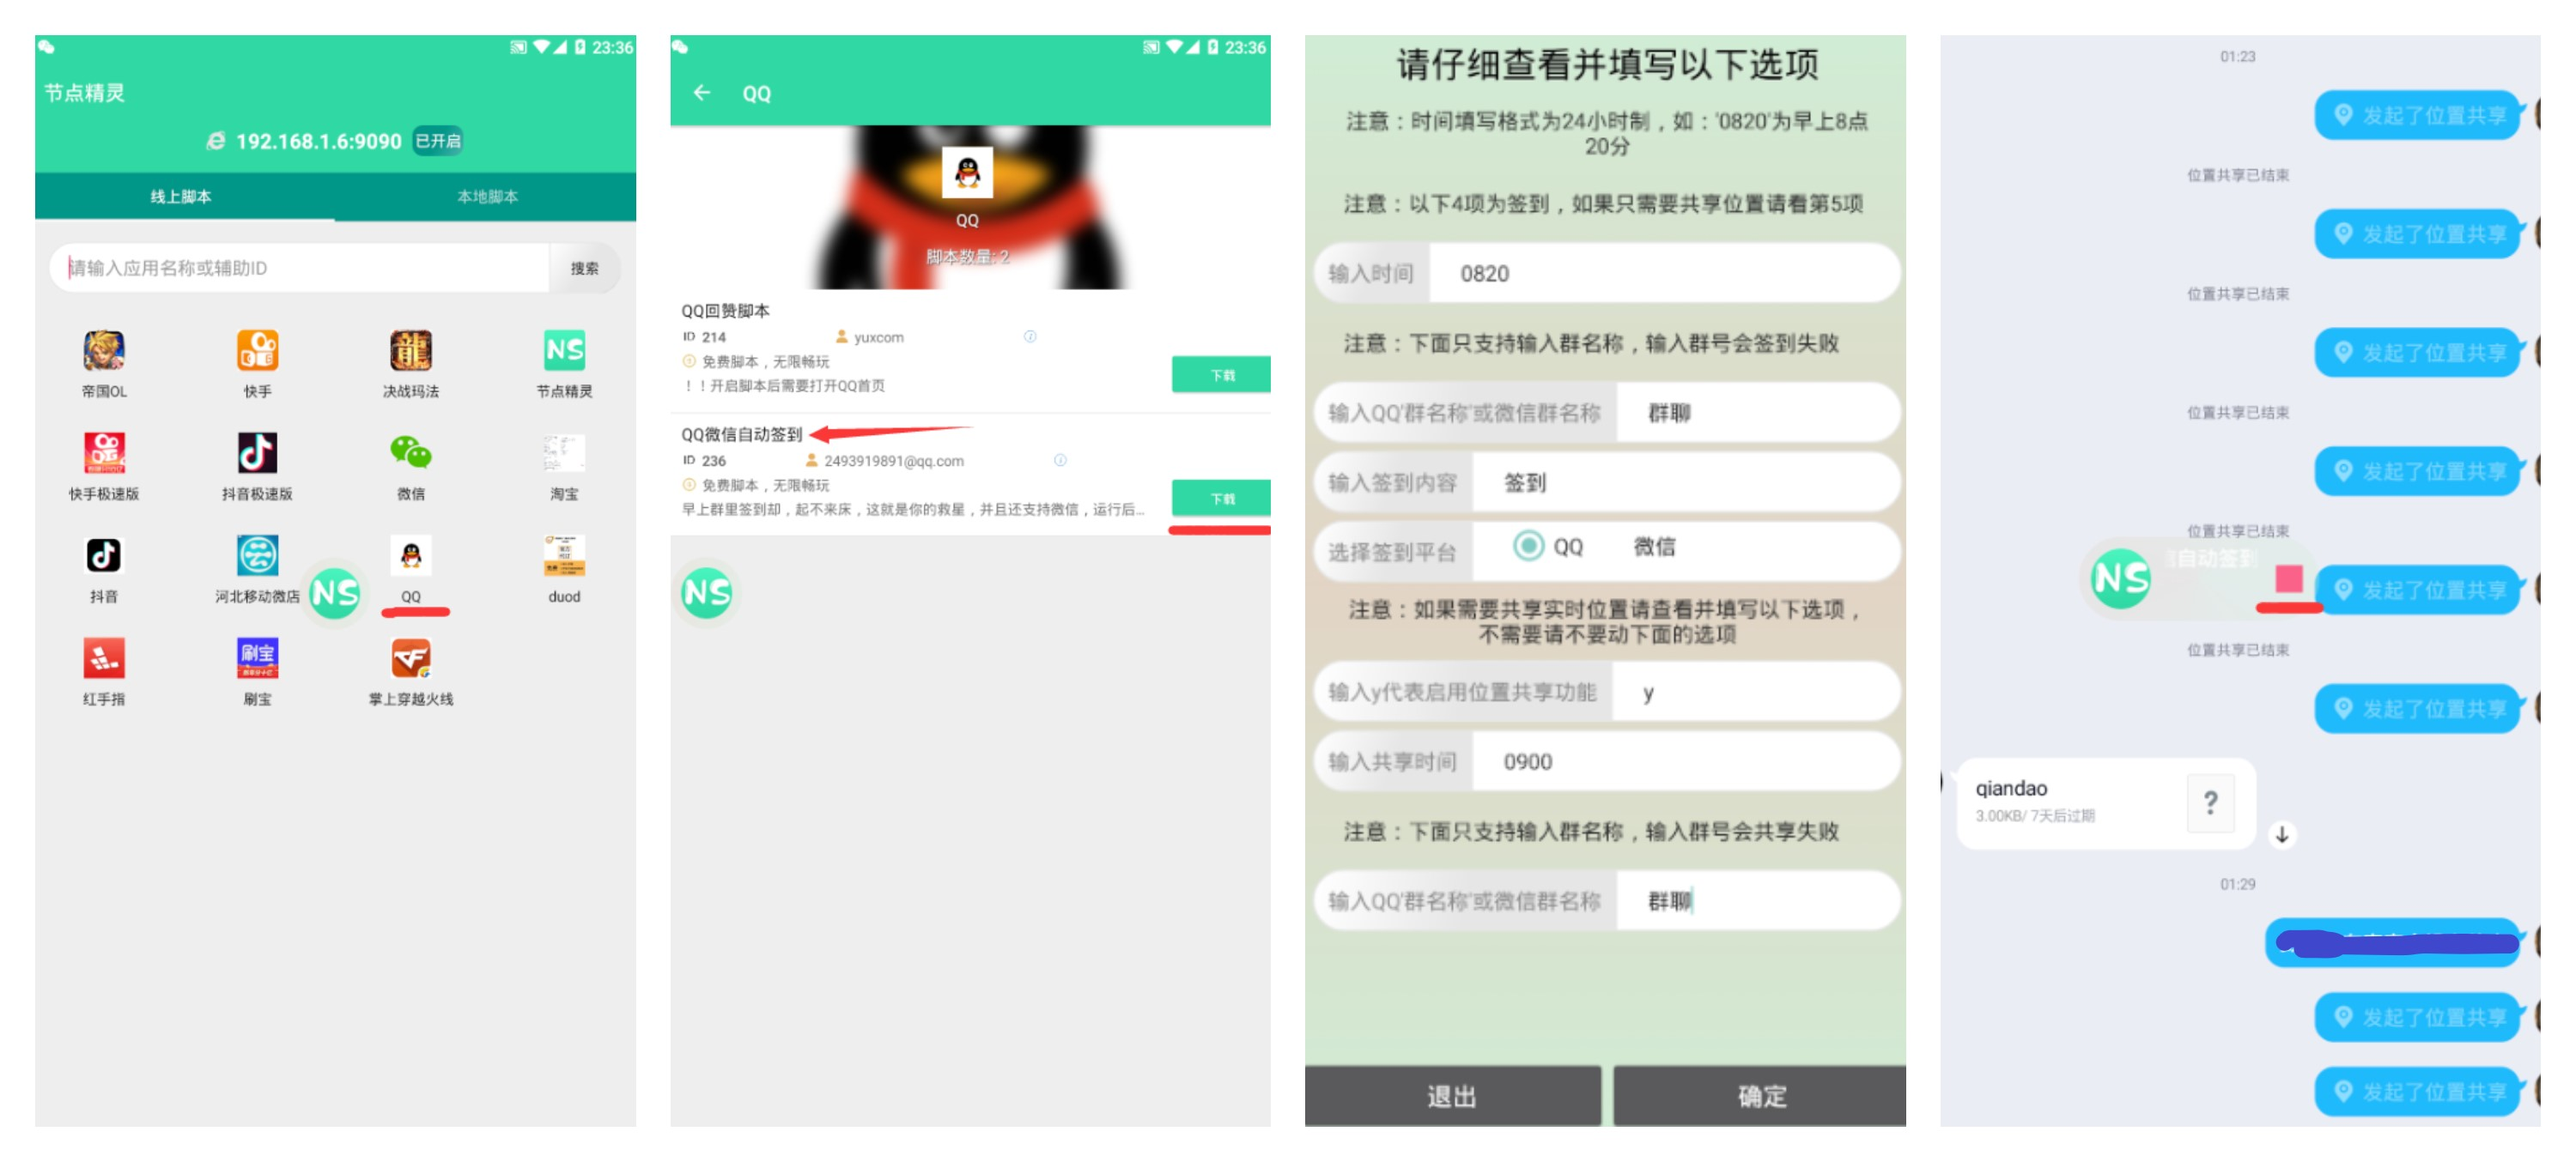
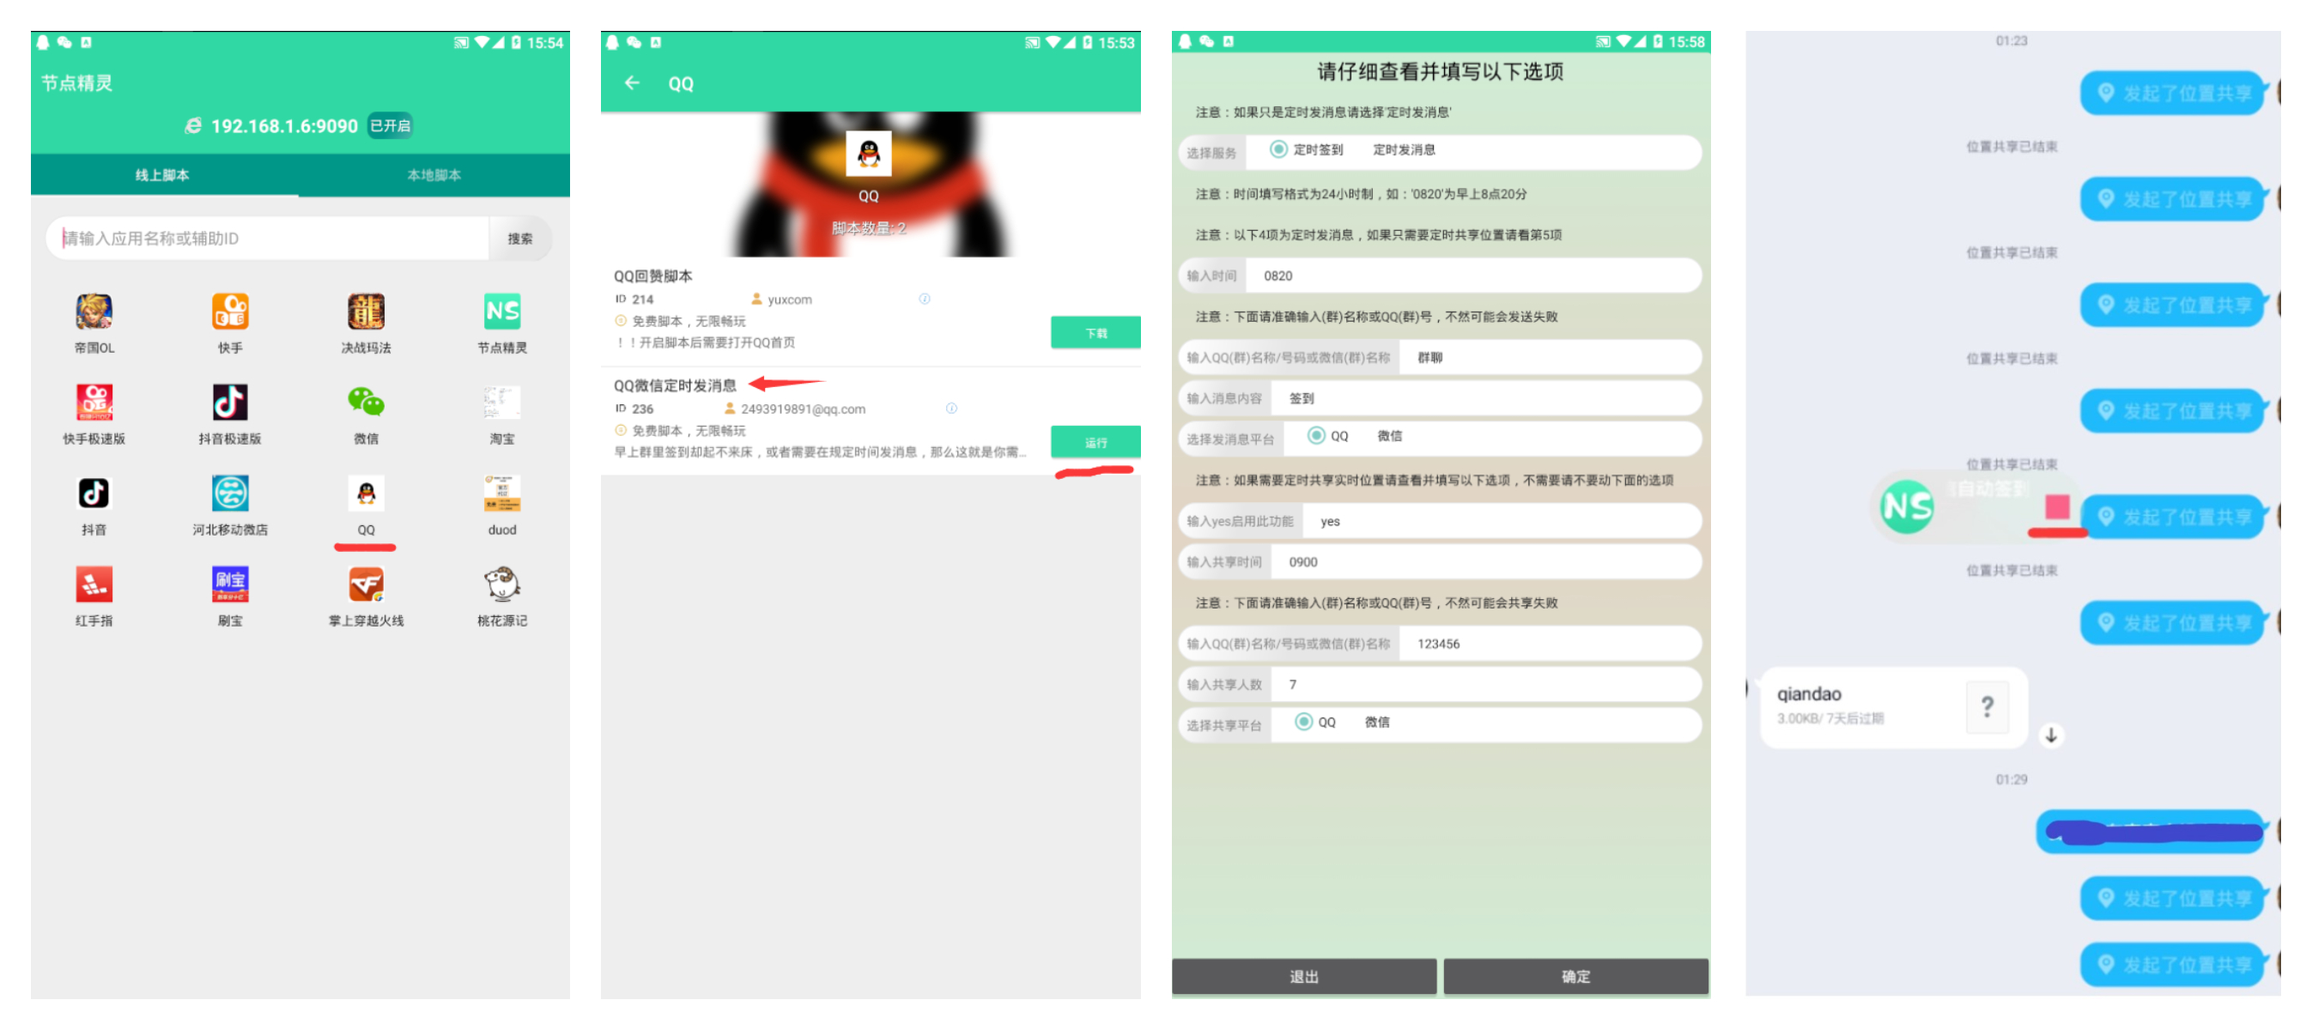
Site updated: 2020-02-24 16:03:30

diff --git a/2020/02/22/page5/index.html b/2020/02/22/page5/index.html
@@ -171,7 +171,7 @@
 <meta property="og:locale" content="zh-Hans">
 <meta property="og:image" content="http://darkabyss.top/2020/02/22/page5/1.jpg">
 <meta property="og:image" content="http://darkabyss.top/2020/02/22/page5/2.jpg">
-<meta property="og:updated_time" content="2020-02-24T07:29:12.765Z">
+<meta property="og:updated_time" content="2020-02-24T07:36:52.254Z">
 <meta name="twitter:card" content="summary">
 <meta name="twitter:title" content="微信QQ定时发消息">
 <meta name="twitter:description" content="为何出此脚本由于疫情我们不能去学校上学，所以流行起了网课，我们班就是每天QQ群里签到，然后共享位置，在群里上课，但是要完成签到和共享位置必须得很早起床，对于我这种不想起床的人来说这是非常痛苦的，遇巧的是正好我在之前学习了lua语言和新兴的辅助软件“节点精灵”，所以为了不起这么早，就写了此脚本，任何人可用。">
@@ -492,7 +492,7 @@
                 
                   <span class="post-meta-item-text">更新于</span>
                 
-                <time title="修改时间：2020-02-24 15:29:12" itemprop="dateModified" datetime="2020-02-24T15:29:12+08:00">2020-02-24</time>
+                <time title="修改时间：2020-02-24 15:36:52" itemprop="dateModified" datetime="2020-02-24T15:36:52+08:00">2020-02-24</time>
               </span>
             
           
@@ -555,8 +555,8 @@
 <a id="more"></a>
 
 <h1 id="运行并配置辅助软件"><a href="#运行并配置辅助软件" class="headerlink" title="运行并配置辅助软件"></a>运行并配置辅助软件</h1><p>要使脚本起作用需要下载<a href="https://share.weiyun.com/5IUdjQ6" target="_blank" rel="noopener">节点精灵</a>，下载好后打开会提示你开启无障碍服务，点击前往开启，然后跳转到无障碍设置，点击节点精灵，然后点击那个滑块，提示是否启用点确定。<br><img src="1.jpg" alt></p>
-<h1 id="下载并运行脚本"><a href="#下载并运行脚本" class="headerlink" title="下载并运行脚本"></a>下载并运行脚本</h1><p>配置好后，进入节点精灵主界面，这里我已经把脚本上传到了官方，所以直接点击主界面的QQ，然后会看到2个脚本，后面那个就是我上传的脚本，可以直接下载，下载好后直接点击运行即可，运行后按照图4样板填写即可，如果要关闭的话，直接点击悬浮窗的红色停止按钮即可。<br><img src="2.jpg" alt></p>
-<h1 id="写在最后"><a href="#写在最后" class="headerlink" title="写在最后"></a>写在最后</h1><p>此脚本不仅限于签到，像一些需要在某个时间发消息，但是在那个时间没有闲手，那么就可以用到这个脚本，这就是这个脚本的作用。</p>
+<h1 id="下载并运行脚本"><a href="#下载并运行脚本" class="headerlink" title="下载并运行脚本"></a>下载并运行脚本</h1><p>配置好后，进入节点精灵主界面，这里我已经把脚本上传到了官方，所以直接点击主界面的QQ，然后会看到2个脚本，后面那个就是我上传的脚本，可以直接下载，下载好后直接点击运行即可，运行后按照图4样板填写即可，如果要关闭的话，直接点击悬浮窗的红色停止按钮即可，另外如果共享人数没有达到指定人数就会每隔五分钟持续打开共享的。<br><img src="2.jpg" alt></p>
+<h1 id="写在最后"><a href="#写在最后" class="headerlink" title="写在最后"></a>写在最后</h1><p>此脚本还有隐藏功能，对于早上签到如果没有发现老师或者同学签到是不会签到的，只有当老师或者同学发送了签到才发送签到，这个功能只能用于QQ。此脚本不仅限于签到，像一些需要在某个时间发消息，但是在那个时间没有闲手，那么就可以用到这个脚本，这就是这个脚本的作用。</p>
 
       
     </div>

diff --git a/index.html b/index.html
@@ -488,7 +488,7 @@
                 
                   <span class="post-meta-item-text">更新于</span>
                 
-                <time title="修改时间：2020-02-24 15:29:12" itemprop="dateModified" datetime="2020-02-24T15:29:12+08:00">2020-02-24</time>
+                <time title="修改时间：2020-02-24 15:36:52" itemprop="dateModified" datetime="2020-02-24T15:36:52+08:00">2020-02-24</time>
               </span>
             
           

diff --git a/css/main.css b/css/main.css
@@ -1843,7 +1843,7 @@ pre .javascript .function {
   width: 4px;
   height: 4px;
   border-radius: 50%;
-  background: #fff5ff;
+  background: #ffff2b;
 }
 .feed-link,
 .chat {
